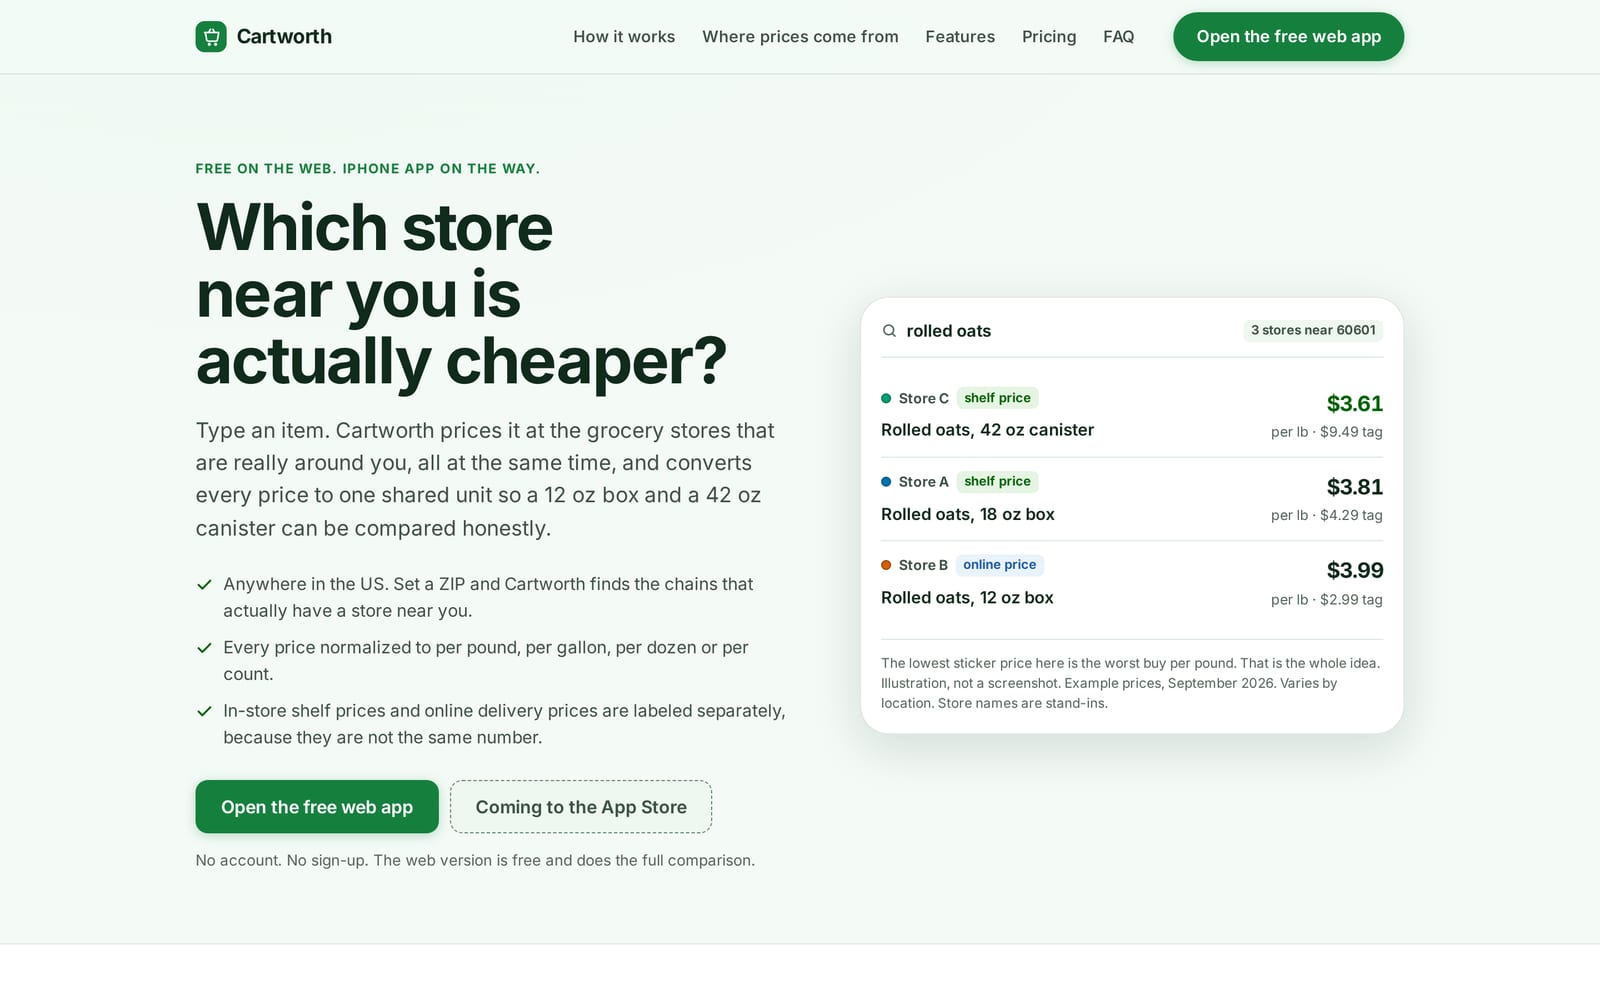
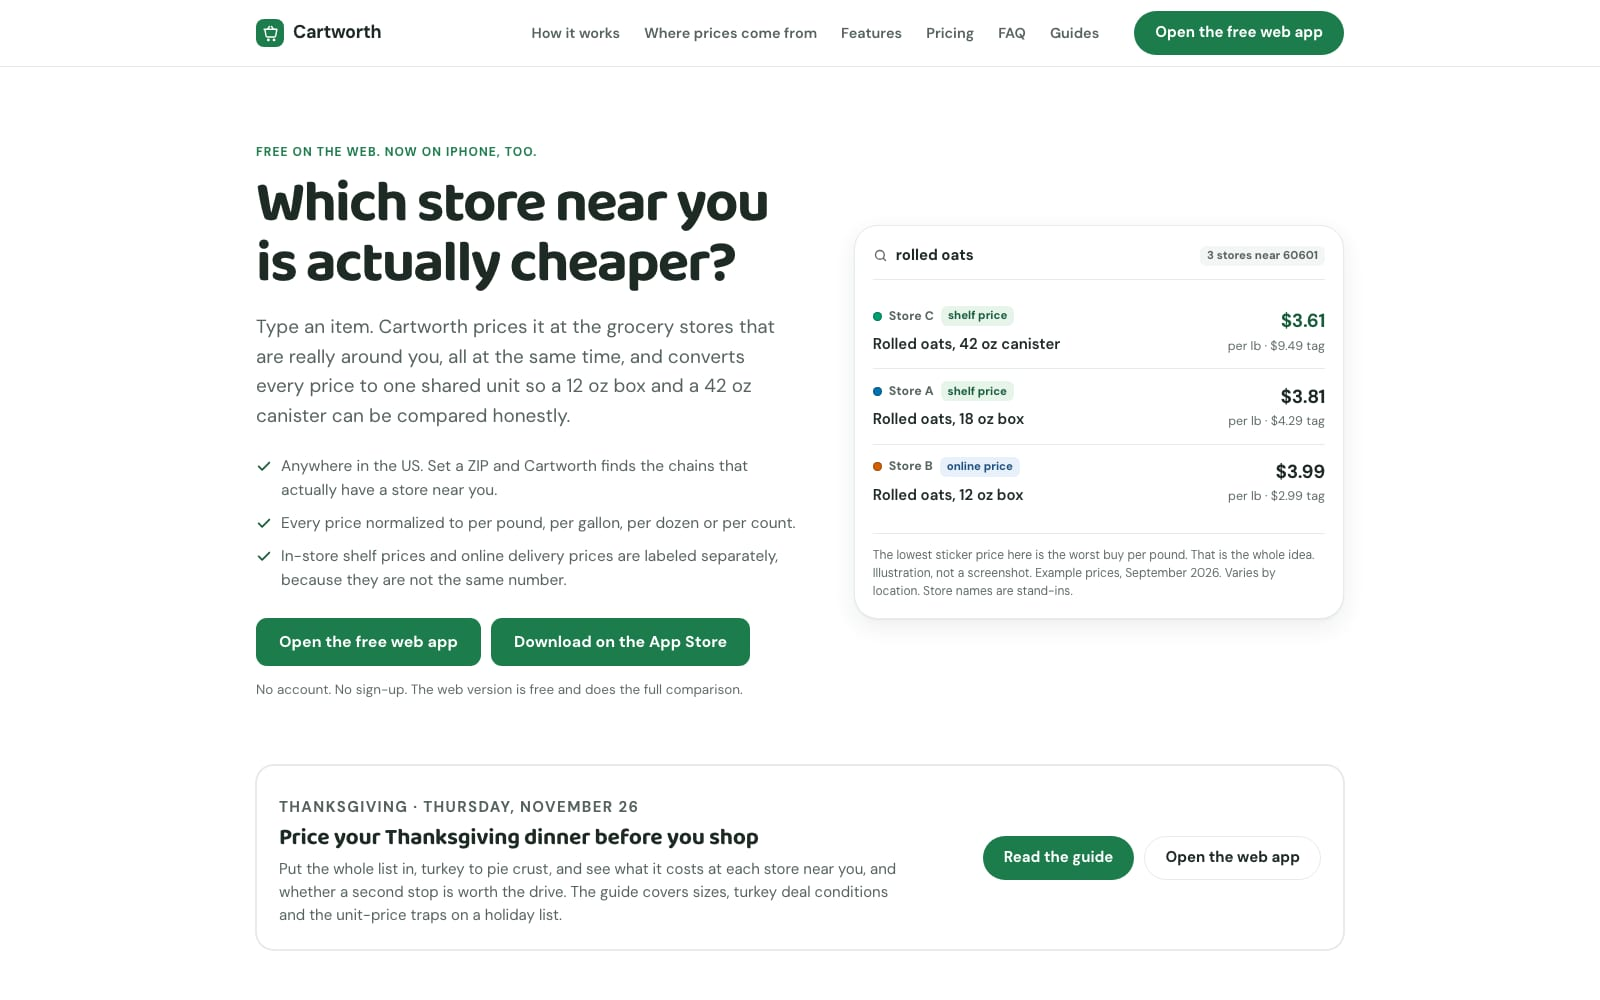
Good Walk is on the App Store; Eats Ranked covers all 50 states and DC
Good Walk: Dog Walk Streak went live on the App Store on November 8.
- The home card gets its App Store button (apps.json), the /apps story
  leads with "Get Good Walk on the App Store" and drops "coming soon",
  and the case study links the listing.

Eats Ranked: eatsranked.com has listed every state and DC as live since
November 9; the site still said 21 states.
- Tile, intro, status, the "One state at a time" section and step 3 now
  say all 50 states and DC.

Screenshots recaptured from the live sites (same framing, re-encoded
with sharp, no metadata):
- eatsranked-site (light and dark): the full map and the state picker.
- eatsranked-guides: the A-to-Z list that replaced the cards.
- goodwalk-site: "Download on the App Store" (both copies).
- cartworth-site: "Download on the App Store".

diff --git a/src/data/showcase.ts b/src/data/showcase.ts
@@ -101,7 +101,7 @@ export const projects: Project[] = [
     id: 'eatsranked',
     name: 'Eats Ranked',
     kicker: 'iPhone apps + web · restaurant guides',
-    tileBlurb: 'Restaurants, ranked state by state. 21 states live on the web, and the Chicago app is on the App Store.',
+    tileBlurb: 'Restaurants, ranked state by state. All 50 states and DC are live on the web, and the Chicago app is on the App Store.',
     bg: surface,
     fg: '#ba3441',
     bgDark: surfaceDark,
@@ -109,16 +109,16 @@ export const projects: Project[] = [
     tone: 'light',
     hero: {
       title: 'Where to eat, from the public record.',
-      sub: 'Eats Ranked is a family of free restaurant guides, one per state, built from public records, open map data and cited public sources. Each state gets its own iPhone and iPad app, a website and a web version, with local favorites checked one place at a time, from Wisconsin fish fries to New Haven apizza. 21 states are live on the web, and Chicago Restaurants: Ranked is the first app on the App Store.',
+      sub: 'Eats Ranked is a family of free restaurant guides, one per state, built from public records, open map data and cited public sources. Each state gets its own iPhone and iPad app, a website and a web version, with local favorites checked one place at a time, from Wisconsin fish fries to New Haven apizza. All 50 states and DC are live on the web, and Chicago Restaurants: Ranked is the first app on the App Store.',
       screen: 'image',
       image: '/showcase/eatsranked-guides.jpg',
       frame: 'laptop',
-      alt: 'eatsranked.com, Restaurant guides by state: the cards for Chicago Restaurants: Ranked, Wisconsin Eats, Colorado Eats and Washington Eats, each with its icon, its tagline and a link to its website; Chicago’s card links to the App Store and the others say “Coming soon to the App Store”',
+      alt: 'eatsranked.com, Restaurant guides by state: an A-to-Z list of all 50 states and the District of Columbia in three columns, from Alabama to Wyoming, each row with its app’s icon',
     },
     siteShot: {
       desktop: '/showcase/eatsranked-site.jpg',
       desktopDark: '/showcase/eatsranked-site-dark.jpg',
-      caption: 'eatsranked.com: one static page generated from a single data file of states and prices. It opens with a map of the live states, and each state’s icon links to its site; further down are a card for each app and a restaurant-prices section built from Bureau of Labor Statistics data. No cookies, no analytics, no requests to other sites.',
+      caption: 'eatsranked.com: one static page generated from a single data file of states and prices. It opens with a state picker and a map of all 50 states and DC; picking a state shows its website and app. Further down are an A-to-Z list of the guides, each row opening that state’s card, and a restaurant-prices section built from Bureau of Labor Statistics data. No cookies, no analytics, no requests to other sites.',
       url: 'https://eatsranked.com',
     },
     features: [
@@ -142,7 +142,7 @@ export const projects: Project[] = [
       {
         eyebrow: 'One state at a time',
         title: 'Five more states live in four days.',
-        body: 'Chicago and Wisconsin came first, in late September. Between October 5 and 8, Colorado, Washington, Connecticut, Florida and California went live on the web, each built from one shared playbook and fitted to what its state, counties and cities publish, with its own name, icon, palette and guides. What one state’s QA round catches goes into the playbook for the next. Fourteen more have followed since, from Maine and Texas to Pennsylvania and New Jersey, for 21 states on the web.',
+        body: 'Chicago and Wisconsin came first, in late September. Between October 5 and 8, Colorado, Washington, Connecticut, Florida and California went live on the web, each built from one shared playbook and fitted to what its state, counties and cities publish, with its own name, icon, palette and guides. What one state’s QA round catches goes into the playbook for the next. The rest of the country followed, and on November 9 the last three, Minnesota, Iowa and Nebraska, went live: all 50 states and DC.',
         screen: 'image',
         image: '/showcase/eatsranked-connecticut-site.jpg',
         alt: 'The Connecticut Eats website, one of the five: its own navy and tomato-red palette, its apizza icon, links to its Apizza, Lobster rolls, Hot dogs and Diners guides, and counts of 27 apizza places, 58 lobster roll and clam shack stops, 45 diners and dairy bars and 9,358 restaurants statewide',
@@ -167,20 +167,20 @@ export const projects: Project[] = [
     steps: [
       { title: 'Start with one city', ai: 'Turned Chicago’s inspection records into a score and an A–F grade, built the iPhone app and wrote an App Review and legal-risk audit before launch.', me: 'Set the app’s rules: no Google data, no customer reviews or star ratings, no Yelp.' },
       { title: 'Then a second state', ai: 'Built Wisconsin Eats from the Chicago app’s structure, with research agents checking each fish fry and supper club against a 2025–26 source.', me: 'Decided the name should cover restaurants in general, with fish fry and supper clubs as the tagline, and chose one domain with a site per state instead of buying wisconsineats.com.' },
-      { title: 'A hub and nineteen more', ai: 'Built eatsranked.com from one data file, then Colorado, Washington, Connecticut, Florida and California, and fourteen more states after them, each fitted to whatever inspection data its state or local health agencies publish.', me: 'Chose each state’s icon (a Pueblo green chile, not a peach) and made the licensing calls.' },
+      { title: 'A hub and the rest of the country', ai: 'Built eatsranked.com from one data file, then Colorado, Washington, Connecticut, Florida and California, and every other state and DC after them, each fitted to whatever inspection data its state or local health agencies publish.', me: 'Chose each state’s icon (a Pueblo green chile, not a peach) and made the licensing calls.' },
       { title: 'Ship and keep it current', ai: 'Set up the weekly Chicago data refresh with its checks, and wrote the App Store listings and review replies.', me: 'Submitted the first app, Wisconsin Eats, for App Review on September 28; Apple asked for more information. Chicago Restaurants: Ranked became the first app on the App Store on November 2.' },
     ],
     links: [
       { label: 'Visit eatsranked.com', href: 'https://eatsranked.com', primary: true },
       { label: 'Chicago app on the App Store', href: 'https://apps.apple.com/us/app/chicago-restaurants-ranked/id6816931379' },
     ],
-    status: 'Live on the web in 21 states · Chicago app on the App Store, more coming',
+    status: 'Live on the web in all 50 states and DC · Chicago app on the App Store, more coming',
   },
   {
     id: 'goodwalk',
     name: 'Good Walk',
     kicker: 'iPhone app · dog walk tracker',
-    tileBlurb: 'Your dog needs a walk every day. Good Walk makes it a streak.',
+    tileBlurb: 'Your dog needs a walk every day. Good Walk makes it a streak. Now on the App Store.',
     bg: surface,
     fg: '#ab4804',
     bgDark: surfaceDark,
@@ -188,7 +188,7 @@ export const projects: Project[] = [
     tone: 'light',
     hero: {
       title: 'Every dog deserves a good walk.',
-      sub: 'Good Walk is a dog walking app for iPhone. A daily walk target for your dog, one tap from the reminder, and their photo on everything. No collar, no map, no account. Coming soon to the App Store.',
+      sub: 'Good Walk is a dog walking app for iPhone. A daily walk target for your dog, one tap from the reminder, and their photo on everything. No collar, no map, no account. On the App Store since November 8.',
       screen: 'goodwalk-home',
     },
     siteShot: {
@@ -222,13 +222,14 @@ export const projects: Project[] = [
       { title: 'Pick the idea', ai: 'Turned one sentence into a concept: a daily walk streak for your dog, nothing else.', me: '“A dog walk tracker. Keep it simple.”' },
       { title: 'Design the loop', ai: 'Worked out the reminder, the one-tap answer and what the streak screen shows.', me: 'Insisted on no collar, no map and no account.' },
       { title: 'Build the site first', ai: 'Wrote the landing page, three guides, FAQ, privacy and terms, then served a preview from the Mac.', me: 'Reviewed it in the browser pane, bought getgoodwalk.app and set the prices.' },
-      { title: 'Prepare the launch', ai: 'Prepares the App Store listing and the launch checklist.', me: 'Sets the App Store launch date.' },
+      { title: 'Launch', ai: 'Prepared the App Store listing and the launch checklist.', me: 'Shipped the app. Good Walk went live on the App Store on November 8.' },
     ],
     links: [
-      { label: 'getgoodwalk.app', href: 'https://getgoodwalk.app', primary: true },
+      { label: 'Get Good Walk on the App Store', href: 'https://apps.apple.com/us/app/good-walk-dog-walk-streak/id6814555254', primary: true },
+      { label: 'getgoodwalk.app', href: 'https://getgoodwalk.app' },
       { label: 'Source on GitHub', href: 'https://github.com/nickstrom5/goodwalk' },
     ],
-    status: 'In development · App Store launch coming soon',
+    status: 'Live on the App Store and at getgoodwalk.app',
     caseStudy: 'goodwalk-dog-walk-tracker',
   },
   {

diff --git a/src/content/projects/goodwalk-dog-walk-tracker.md b/src/content/projects/goodwalk-dog-walk-tracker.md
@@ -2,7 +2,7 @@
 title: 'Founder, Good Walk: a dog walk tracker with a daily streak'
 shortTitle: 'Good Walk dog walk tracker'
 client: 'Solo build · getgoodwalk.app'
-summary: 'An iPhone app in development: a daily walk target for your dog, one tap from the reminder, and a streak. No collar, no map, no account.'
+summary: 'An iPhone app on the App Store: a daily walk target for your dog, one tap from the reminder, and a streak. No collar, no map, no account.'
 category: 'development'
 platforms: ['iOS']
 stack: ['SwiftUI', 'Notifications', 'Streaks', 'Claude Code']
@@ -11,10 +11,11 @@ featured: false
 source: 'personal'
 links:
   live: 'https://getgoodwalk.app'
+  appStore: 'https://apps.apple.com/us/app/good-walk-dog-walk-streak/id6814555254'
 cover: '/showcase/goodwalk-site.jpg'
 placeholder: false
 published: 2026-09-20
-updated: 2026-10-09
+updated: 2026-11-09
 ---
 
 ## The idea
@@ -25,7 +26,7 @@ Your dog needs a walk every day. Good Walk turns that into a streak: a daily tar
 
 - Set the concept and the constraints, then directed Claude Code through the screens, the reminder and streak logic, and the launch plan.
 - Had the landing site built first: how it works, pricing, an FAQ, three guides on how long and how often to walk a dog, plus privacy and terms.
-- Registered getgoodwalk.app and wrote the launch plan.
+- Registered getgoodwalk.app, wrote the launch plan and shipped the app: Good Walk went live on the App Store on November 8, 2026.
 
 ## Why it matters
 
